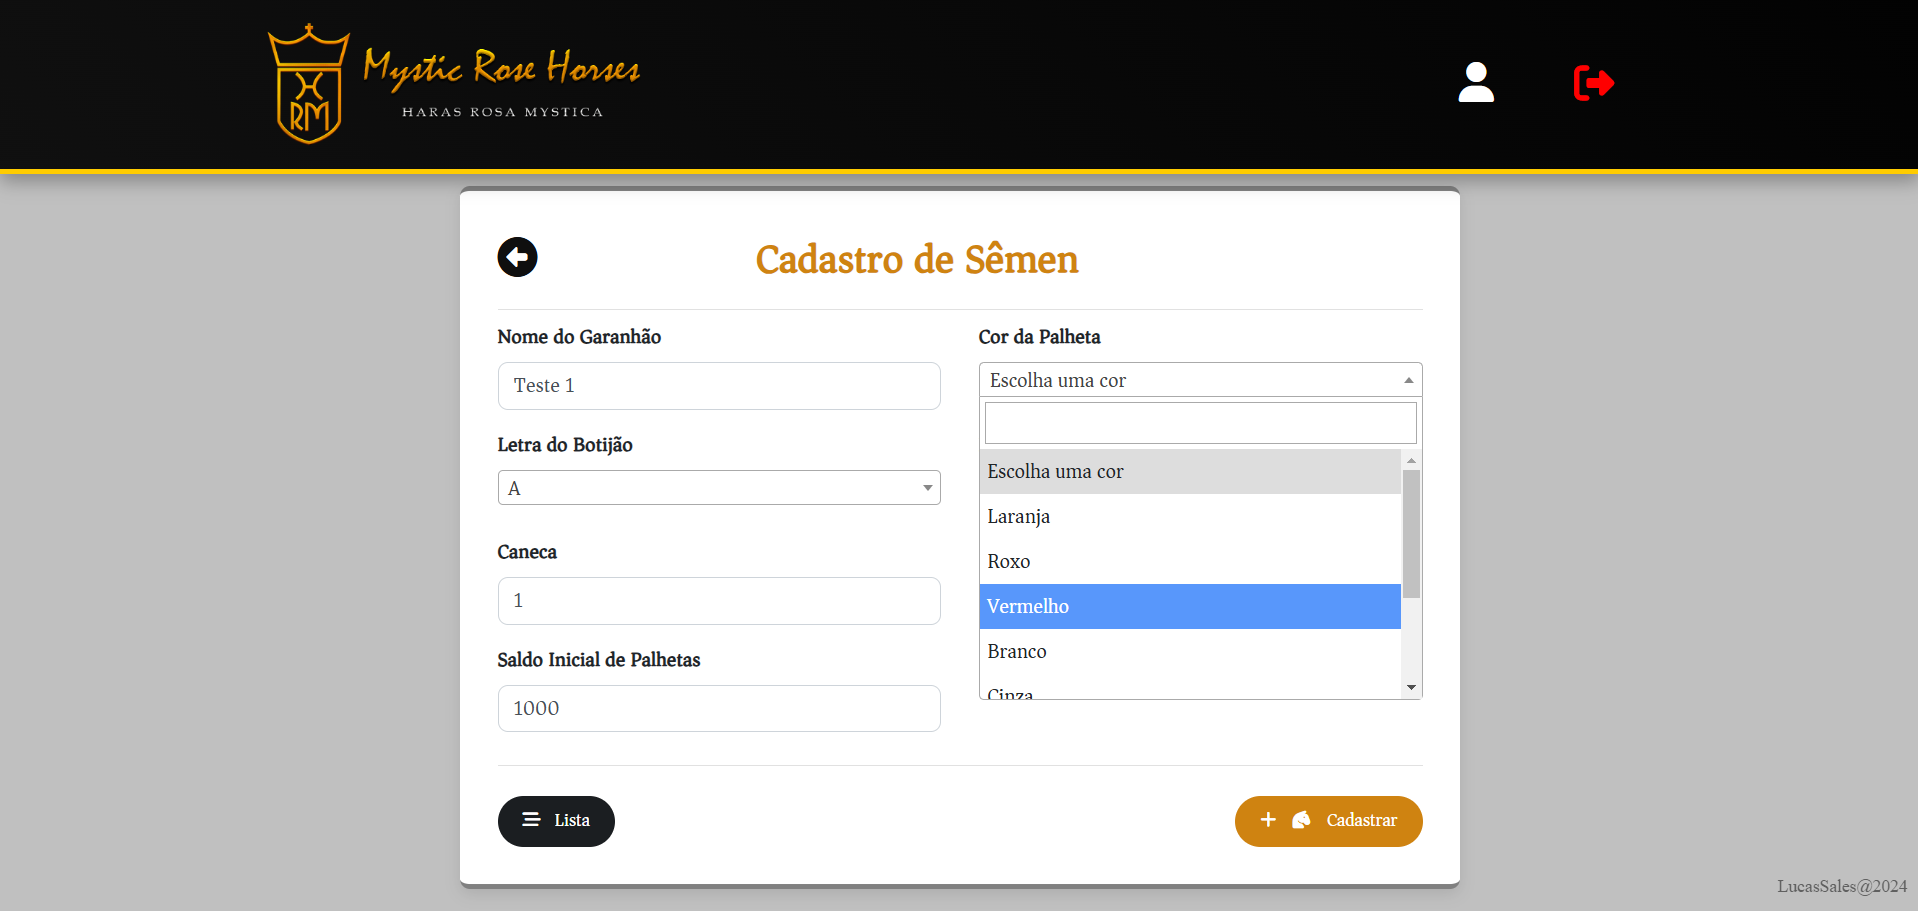
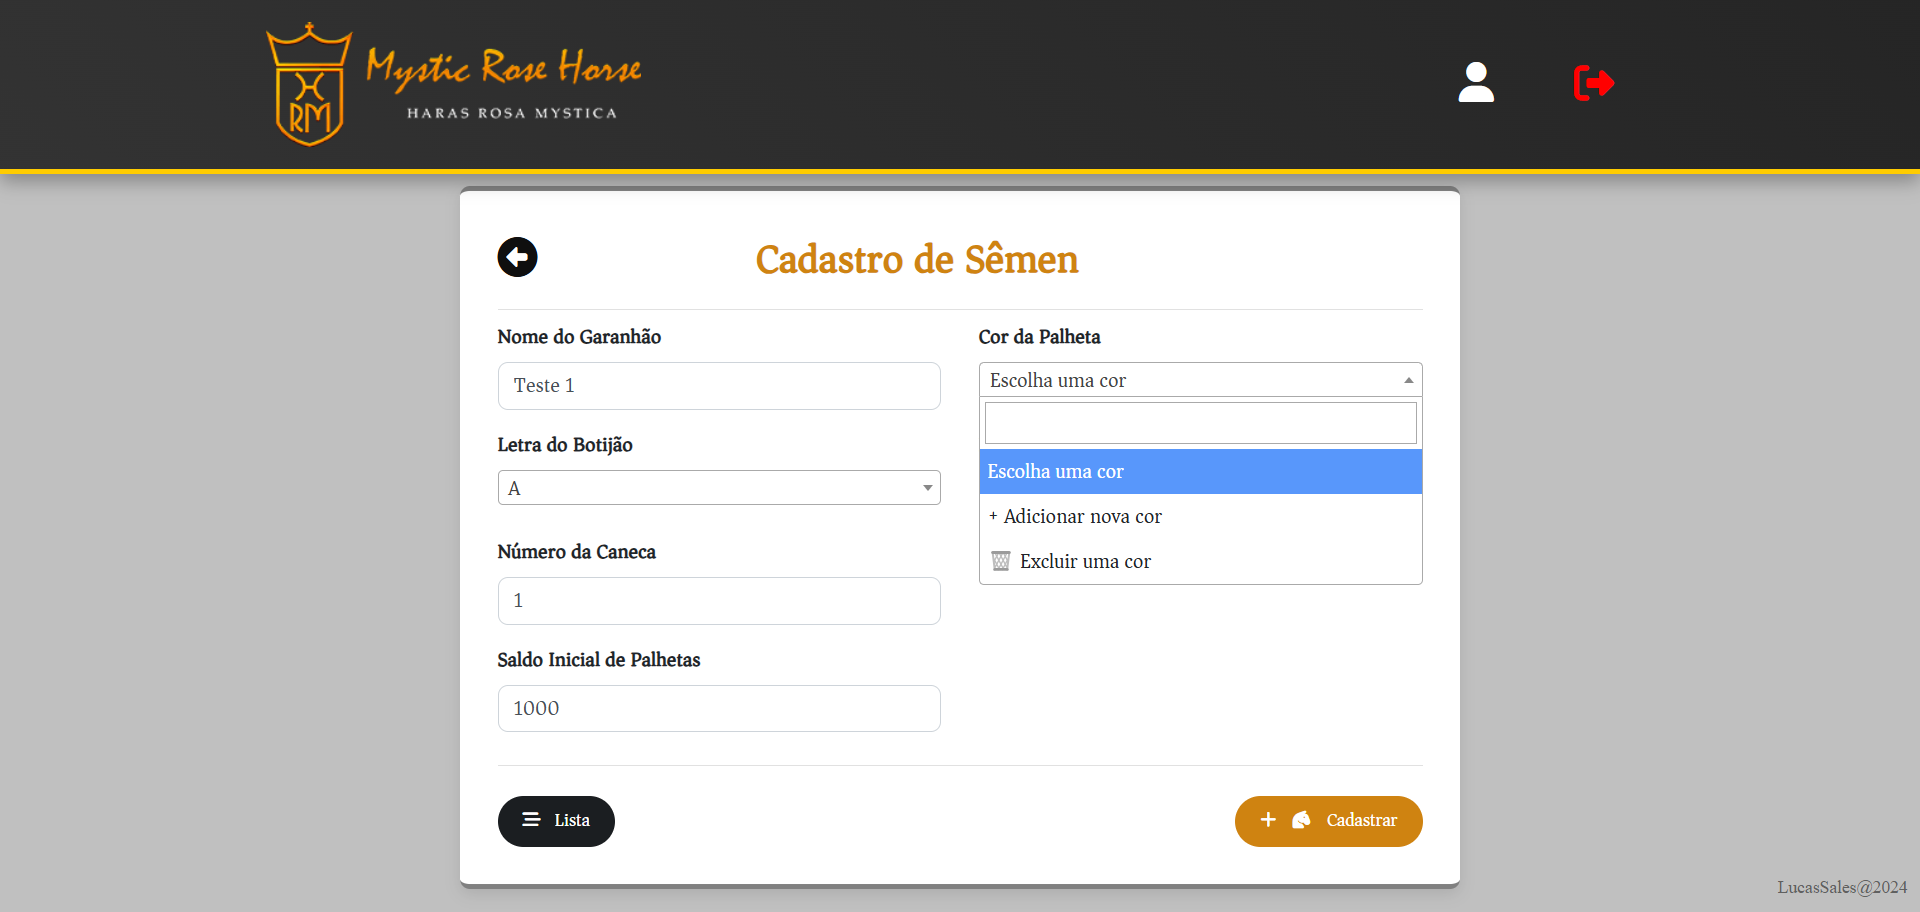
Alterado algumas funções html e também o manual do sistema.

diff --git a/sistema_sistema/src/main/resources/templates/administrativo/ajudaCadastroGaranhao.html b/sistema_sistema/src/main/resources/templates/administrativo/ajudaCadastroGaranhao.html
@@ -325,8 +325,7 @@
 		<div class="container">
 			<!-- Logo à esquerda -->
 			<a class="navbar-brand" href="/home">
-				<img src="https://sp-ao.shortpixel.ai/client/to_webp,q_glossy,ret_img,w_519,h_175/https://www.harasrosamystica.com.br/wp-content/uploads/2021/07/Logo-HRM-site.png"
-					class="d-inline-block align-top" alt="">
+				<img src="https://www.harasrosamystica.com.br/wp-content/uploads/2024/07/logo-header-novo.webp" alt="Logo Haras Rosa Mystica">
 			</a>
 
 			<!-- Botão do menu responsivo -->
@@ -428,13 +427,39 @@
 		    <img src="/uploads/IMG/CADASTRO_GARANHAO_1.png" alt="Garanhão 1" class="imagem-padrao">
 			
 			<p>
-			    No campo "Cor da Palheta", você deve selecionar a cor que representa a palheta em que o sêmen está armazenado. Há um total
-				 de 8 cores disponíveis para escolha, cada uma representando uma identificação específica. Além de selecionar, você também 
-				 pode pesquisar a cor para facilitar a localização.
+			   No campo "Cor da Palheta", você terá duas opções: adicionar uma nova cor ou excluir uma cor existente. 
+			   Essas opções permitem gerenciar as cores disponíveis para representar a palheta em que o sêmen está 
+			   armazenado, garantindo maior flexibilidade na identificação.
 			</p>
-			
 
 			<img src="/uploads/IMG/CADASTRO_GARANHAO_2.png" alt="Garanhão 2" class="imagem-padrao">
+			
+			<p>
+			    Ao clicar em "Adicionar Nova Cor", um campo será aberto para que você possa digitar a cor desejada, 
+			    como "Vermelho", por exemplo. Isso permite personalizar as opções de cores disponíveis para representar 
+			    a palheta em que o sêmen está armazenado.
+			</p>
+			
+			<img src="/uploads/IMG/CADASTRO_GARANHAO_4.png" alt="Garanhão 2" class="imagem-padrao">
+			
+			<p>
+			    Ao clicar em "OK", a cor será adicionada à lista de cores.
+			</p>
+			
+			<img src="/uploads/IMG/CADASTRO_GARANHAO_5.png" alt="Garanhão 2" class="imagem-padrao">
+			
+			<p>
+			    Considerando que a cor "Branco" já está adicionada, para excluí-la, você deverá clicar em "Excluir uma cor".
+			</p>
+			
+			<img src="/uploads/IMG/CADASTRO_GARANHAO_6.png" alt="Garanhão 2" class="imagem-padrao">
+			
+			<p>
+			    Após isso, você deve digitar exatamente a cor que deseja excluir, incluindo letras maiúsculas caso existam, 
+			    e clicar em "OK".
+			</p>
+			
+			<img src="/uploads/IMG/CADASTRO_GARANHAO_7.png" alt="Garanhão 2" class="imagem-padrao">
 			
 			<p>
 			    No campo "Data da Contagem Inicial", você pode digitar a data diretamente no formato dia/mês/ano.

diff --git a/sistema_sistema/src/main/resources/templates/administrativo/garanhoes/lista.html b/sistema_sistema/src/main/resources/templates/administrativo/garanhoes/lista.html
@@ -320,8 +320,7 @@
 		<div class="container">
 			<!-- Logo à esquerda -->
 			<a class="navbar-brand" href="/home">
-				<img src="https://sp-ao.shortpixel.ai/client/to_webp,q_glossy,ret_img,w_519,h_175/https://www.harasrosamystica.com.br/wp-content/uploads/2021/07/Logo-HRM-site.png"
-					class="d-inline-block align-top" alt="">
+				<img src="https://www.harasrosamystica.com.br/wp-content/uploads/2024/07/logo-header-novo.webp" alt="Logo Haras Rosa Mystica">
 			</a>
 
 			<!-- Botão do menu responsivo -->
@@ -636,7 +635,7 @@
 				janelaImpressao.document.write(`
 	            <div class="header">
 	                <div class="header-img">
-	                    <img src="https://sp-ao.shortpixel.ai/client/to_webp,q_glossy,ret_img,w_519,h_175/https://www.harasrosamystica.com.br/wp-content/uploads/2021/07/Logo-HRM-site.png" alt="Logo do Haras Rosa Mystica">
+	                	<img src="https://www.harasrosamystica.com.br/wp-content/uploads/2024/07/logo-header-novo.webp" alt="Logo Haras Rosa Mystica">
 	                </div>
 	                <h2 class="header-title">Lista de Sêmen Disponível - Página ${index + 1}</h2>
 	            </div>

diff --git a/sistema_sistema/src/main/resources/templates/administrativo/usuarios/lista.html b/sistema_sistema/src/main/resources/templates/administrativo/usuarios/lista.html
@@ -320,8 +320,7 @@
 		<div class="container">
 			<!-- Logo à esquerda -->
 			<a class="navbar-brand" href="/home">
-				<img src="https://sp-ao.shortpixel.ai/client/to_webp,q_glossy,ret_img,w_519,h_175/https://www.harasrosamystica.com.br/wp-content/uploads/2021/07/Logo-HRM-site.png"
-					class="d-inline-block align-top" alt="">
+				<img src="https://www.harasrosamystica.com.br/wp-content/uploads/2024/07/logo-header-novo.webp" alt="Logo Haras Rosa Mystica">
 			</a>
 
 			<!-- Botão do menu responsivo -->
@@ -612,7 +611,7 @@
 				janelaImpressao.document.write(`
 	            <div class="header">
 	                <div class="header-img">
-	                    <img src="https://sp-ao.shortpixel.ai/client/to_webp,q_glossy,ret_img,w_519,h_175/https://www.harasrosamystica.com.br/wp-content/uploads/2021/07/Logo-HRM-site.png" alt="Logo do Haras Rosa Mystica">
+	                	<img src="https://www.harasrosamystica.com.br/wp-content/uploads/2024/07/logo-header-novo.webp" alt="Logo Haras Rosa Mystica">
 	                </div>
 	                <h2 class="header-title">Lista de Usuários - Página ${index + 1}</h2>
 	            </div>

diff --git a/sistema_sistema/src/main/resources/templates/administrativo/movimentacoes/lista.html b/sistema_sistema/src/main/resources/templates/administrativo/movimentacoes/lista.html
@@ -320,8 +320,7 @@
 		<div class="container">
 			<!-- Logo à esquerda -->
 			<a class="navbar-brand" href="/home">
-				<img src="https://sp-ao.shortpixel.ai/client/to_webp,q_glossy,ret_img,w_519,h_175/https://www.harasrosamystica.com.br/wp-content/uploads/2021/07/Logo-HRM-site.png"
-					class="d-inline-block align-top" alt="">
+				<img src="https://www.harasrosamystica.com.br/wp-content/uploads/2024/07/logo-header-novo.webp" alt="Logo Haras Rosa Mystica">
 			</a>
 
 			<!-- Botão do menu responsivo -->
@@ -653,7 +652,7 @@
 		    ${paginas.map((tabela, index) => `
 		        <div class="header">
 		            <div class="header-img">
-		                <img src="https://sp-ao.shortpixel.ai/client/to_webp,q_glossy,ret_img,w_519,h_175/https://www.harasrosamystica.com.br/wp-content/uploads/2021/07/Logo-HRM-site.png" alt="Logo do Haras Rosa Mystica">
+		            	<img src="https://www.harasrosamystica.com.br/wp-content/uploads/2024/07/logo-header-novo.webp" alt="Logo Haras Rosa Mystica">
 		            </div>
 		            <h2 class="header-title">Lista de Movimentações de Sêmen - Página ${index + 1}</h2>
 		        </div>

diff --git a/sistema_sistema/src/main/resources/templates/administrativo/usuarios/eventoUsuario.html b/sistema_sistema/src/main/resources/templates/administrativo/usuarios/eventoUsuario.html
@@ -302,8 +302,7 @@
 		<div class="container">
 			<!-- Logo à esquerda -->
 			<a class="navbar-brand" href="/home">
-				<img src="https://sp-ao.shortpixel.ai/client/to_webp,q_glossy,ret_img,w_519,h_175/https://www.harasrosamystica.com.br/wp-content/uploads/2021/07/Logo-HRM-site.png"
-					class="d-inline-block align-top" alt="">
+				<img src="https://www.harasrosamystica.com.br/wp-content/uploads/2024/07/logo-header-novo.webp" alt="Logo Haras Rosa Mystica">
 			</a>
 
 			<!-- Botão do menu responsivo -->
@@ -695,7 +694,7 @@
 						    <body>
 						        <div class="header">
 						            <div class="header-img">
-						                <img src="https://sp-ao.shortpixel.ai/client/to_webp,q_glossy,ret_img,w_519,h_175/https://www.harasrosamystica.com.br/wp-content/uploads/2021/07/Logo-HRM-site.png" alt="Logo do Haras Rosa Mystica">
+						            	<img src="https://www.harasrosamystica.com.br/wp-content/uploads/2024/07/logo-header-novo.webp" alt="Logo Haras Rosa Mystica">
 						            </div>
 						            <h2 class="header-title">Detalhes do usuário</h2>
 						        </div>

diff --git a/sistema_sistema/src/main/resources/templates/administrativo/movimentacoes/eventoMovimentacao.html b/sistema_sistema/src/main/resources/templates/administrativo/movimentacoes/eventoMovimentacao.html
@@ -302,8 +302,7 @@
 		<div class="container">
 			<!-- Logo à esquerda -->
 			<a class="navbar-brand" href="/home">
-				<img src="https://sp-ao.shortpixel.ai/client/to_webp,q_glossy,ret_img,w_519,h_175/https://www.harasrosamystica.com.br/wp-content/uploads/2021/07/Logo-HRM-site.png"
-					class="d-inline-block align-top" alt="">
+				<img src="https://www.harasrosamystica.com.br/wp-content/uploads/2024/07/logo-header-novo.webp" alt="Logo Haras Rosa Mystica">
 			</a>
 
 			<!-- Botão do menu responsivo -->
@@ -854,7 +853,7 @@
 				    <body>
 				        <div class="header">
 				            <div class="header-img">
-				                <img src="https://sp-ao.shortpixel.ai/client/to_webp,q_glossy,ret_img,w_519,h_175/https://www.harasrosamystica.com.br/wp-content/uploads/2021/07/Logo-HRM-site.png" alt="Logo do Haras Rosa Mystica">
+				            	<img src="https://www.harasrosamystica.com.br/wp-content/uploads/2024/07/logo-header-novo.webp" alt="Logo Haras Rosa Mystica">
 				            </div>
 				            <h2 class="header-title">Detalhes da Movimentação</h2>
 				        </div>

diff --git a/sistema_sistema/src/main/resources/templates/administrativo/garanhoes/eventoGaranhao.html b/sistema_sistema/src/main/resources/templates/administrativo/garanhoes/eventoGaranhao.html
@@ -303,8 +303,7 @@
 		<div class="container">
 			<!-- Logo à esquerda -->
 			<a class="navbar-brand" href="/home">
-				<img src="https://sp-ao.shortpixel.ai/client/to_webp,q_glossy,ret_img,w_519,h_175/https://www.harasrosamystica.com.br/wp-content/uploads/2021/07/Logo-HRM-site.png"
-					class="d-inline-block align-top" alt="">
+				<img src="https://www.harasrosamystica.com.br/wp-content/uploads/2024/07/logo-header-novo.webp" alt="Logo Haras Rosa Mystica">
 			</a>
 
 			<!-- Botão do menu responsivo -->
@@ -937,7 +936,7 @@
 				    <body>
 				        <div class="header">
 				            <div class="header-img">
-				                <img src="https://sp-ao.shortpixel.ai/client/to_webp,q_glossy,ret_img,w_519,h_175/https://www.harasrosamystica.com.br/wp-content/uploads/2021/07/Logo-HRM-site.png" alt="Logo do Haras Rosa Mystica">
+				            <img src="https://www.harasrosamystica.com.br/wp-content/uploads/2024/07/logo-header-novo.webp" alt="Logo Haras Rosa Mystica">
 				            </div>
 				            <h2 class="header-title">Detalhes do Garanhão</h2>
 				        </div>

diff --git a/sistema_sistema/src/main/resources/templates/administrativo/ajuda.html b/sistema_sistema/src/main/resources/templates/administrativo/ajuda.html
@@ -288,8 +288,7 @@
 	<nav class="navbar navbar-expand-lg navbar-dark navbar-background">
 		<div class="container">
 			<a class="navbar-brand" href="/home">
-				<img src="https://sp-ao.shortpixel.ai/client/to_webp,q_glossy,ret_img,w_519,h_175/https://www.harasrosamystica.com.br/wp-content/uploads/2021/07/Logo-HRM-site.png"
-					class="d-inline-block align-top" alt="Logotipo Haras Rosa Mystica">
+				<img src="https://www.harasrosamystica.com.br/wp-content/uploads/2024/07/logo-header-novo.webp" alt="Logo Haras Rosa Mystica">
 			</a>
 
 			<button class="navbar-toggler" type="button" data-toggle="collapse" data-target="#conteudoNavbarSuportado"

diff --git a/sistema_sistema/src/main/resources/templates/administrativo/ajudaAdmin.html b/sistema_sistema/src/main/resources/templates/administrativo/ajudaAdmin.html
@@ -310,8 +310,7 @@
 	<nav class="navbar navbar-expand-lg navbar-dark navbar-background">
 		<div class="container">
 			<a class="navbar-brand" href="/home">
-				<img src="https://sp-ao.shortpixel.ai/client/to_webp,q_glossy,ret_img,w_519,h_175/https://www.harasrosamystica.com.br/wp-content/uploads/2021/07/Logo-HRM-site.png"
-					class="d-inline-block align-top" alt="Logotipo Haras Rosa Mystica">
+				<img src="https://www.harasrosamystica.com.br/wp-content/uploads/2024/07/logo-header-novo.webp" alt="Logo Haras Rosa Mystica">
 			</a>
 
 			<button class="navbar-toggler" type="button" data-toggle="collapse" data-target="#conteudoNavbarSuportado"

diff --git a/sistema_sistema/src/main/resources/templates/administrativo/ajudaUser.html b/sistema_sistema/src/main/resources/templates/administrativo/ajudaUser.html
@@ -310,8 +310,7 @@
 	<nav class="navbar navbar-expand-lg navbar-dark navbar-background">
 		<div class="container">
 			<a class="navbar-brand" href="/home">
-				<img src="https://sp-ao.shortpixel.ai/client/to_webp,q_glossy,ret_img,w_519,h_175/https://www.harasrosamystica.com.br/wp-content/uploads/2021/07/Logo-HRM-site.png"
-					class="d-inline-block align-top" alt="Logotipo Haras Rosa Mystica">
+				<img src="https://www.harasrosamystica.com.br/wp-content/uploads/2024/07/logo-header-novo.webp" alt="Logo Haras Rosa Mystica">
 			</a>
 
 			<button class="navbar-toggler" type="button" data-toggle="collapse" data-target="#conteudoNavbarSuportado"

diff --git a/sistema_sistema/src/main/resources/templates/administrativo/ajudaCadastroMovimentacao.html b/sistema_sistema/src/main/resources/templates/administrativo/ajudaCadastroMovimentacao.html
@@ -325,8 +325,7 @@
 		<div class="container">
 			<!-- Logo à esquerda -->
 			<a class="navbar-brand" href="/home">
-				<img src="https://sp-ao.shortpixel.ai/client/to_webp,q_glossy,ret_img,w_519,h_175/https://www.harasrosamystica.com.br/wp-content/uploads/2021/07/Logo-HRM-site.png"
-					class="d-inline-block align-top" alt="">
+				<img src="https://www.harasrosamystica.com.br/wp-content/uploads/2024/07/logo-header-novo.webp" alt="Logo Haras Rosa Mystica">
 			</a>
 
 			<!-- Botão do menu responsivo -->

diff --git a/sistema_sistema/src/main/resources/templates/administrativo/ajudaCadastroMovimentacaoUser.html b/sistema_sistema/src/main/resources/templates/administrativo/ajudaCadastroMovimentacaoUser.html
@@ -325,8 +325,7 @@
 		<div class="container">
 			<!-- Logo à esquerda -->
 			<a class="navbar-brand" href="/home">
-				<img src="https://sp-ao.shortpixel.ai/client/to_webp,q_glossy,ret_img,w_519,h_175/https://www.harasrosamystica.com.br/wp-content/uploads/2021/07/Logo-HRM-site.png"
-					class="d-inline-block align-top" alt="">
+				<img src="https://www.harasrosamystica.com.br/wp-content/uploads/2024/07/logo-header-novo.webp" alt="Logo Haras Rosa Mystica">
 			</a>
 
 			<!-- Botão do menu responsivo -->
